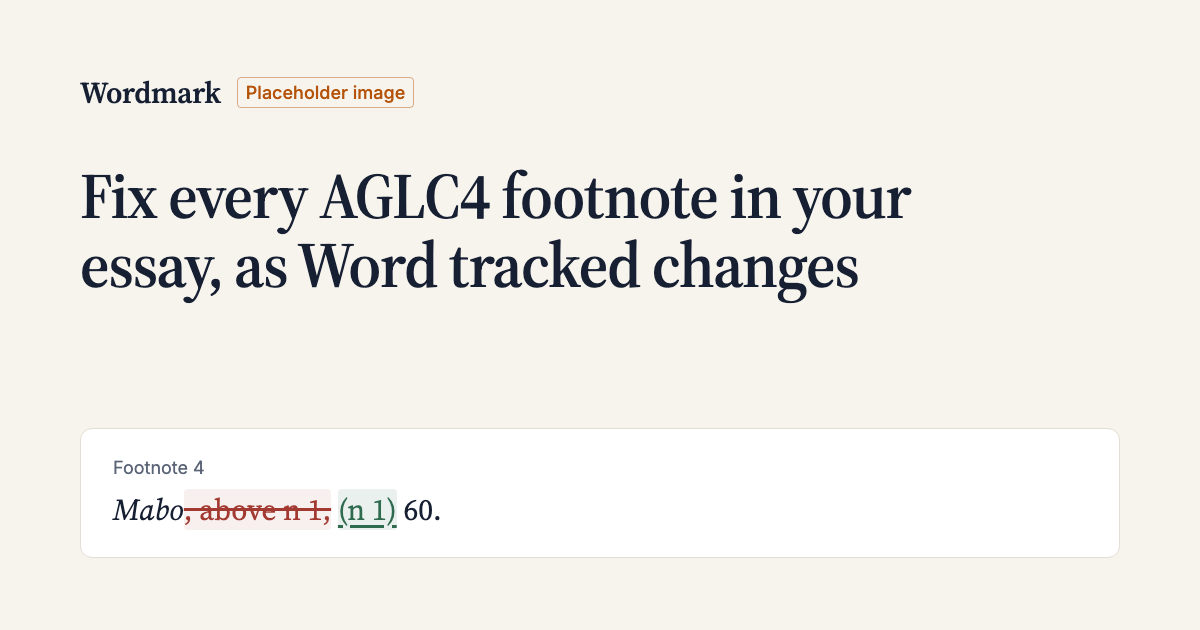
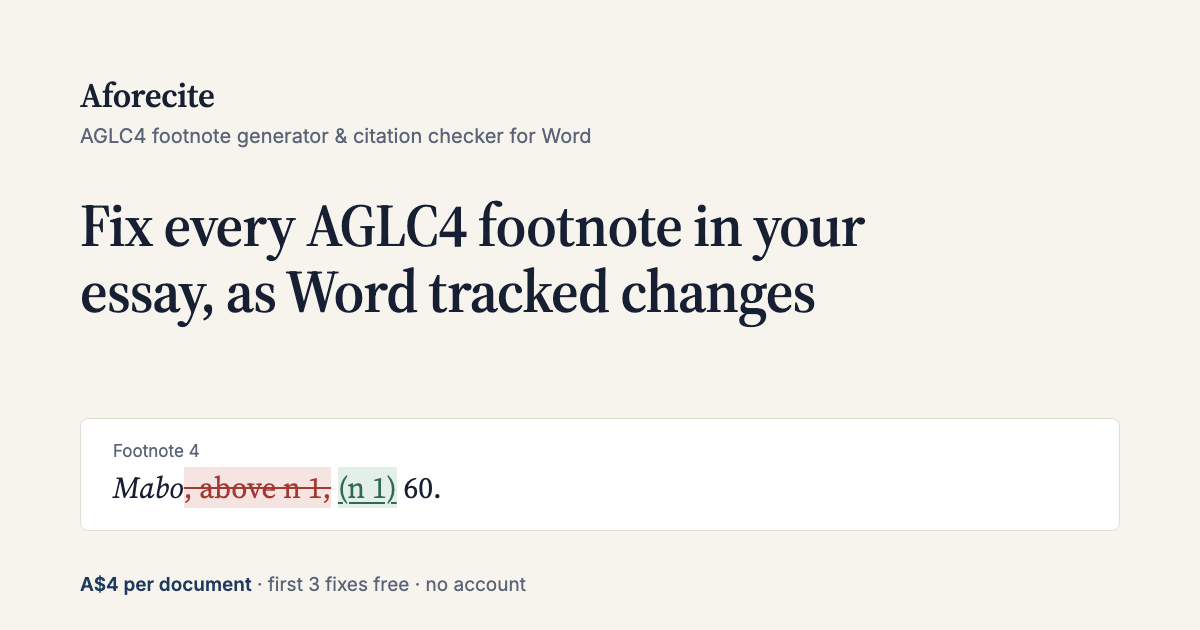
Name the product Aforecite
- BRAND is Aforecite ("aforecited": cited above, which is what Ibid and
  (n x) do).
- The page title leads with what students search for: "AGLC4 Footnote
  Generator & Citation Checker for Word | Aforecite", and the description
  mentions an AGLC4 referencing generator.
- A new Open Graph image with the name and price replaces the placeholder.
- The OpenRouter attribution header, the API title, the README heading and
  DESIGN.md's wordmark rule use the name too.

diff --git a/web/index.html b/web/index.html
@@ -9,12 +9,12 @@ FORM: Editorial legal register, pinned by the brief (no roll). Staging: preview 
 <html lang="en-AU">
 <head>
     {{> head}}
-    <title>AGLC4 Citation Checker and Fixer for Word (.docx)</title>
-    <meta name="description" content="Upload your Word essay and every footnote is fixed to AGLC4: Ibid, (n x), short titles and an optional bibliography, returned as Word tracked changes. {{price}} per document; the first {{preview_full}} fixes are free.">
+    <title>AGLC4 Footnote Generator &amp; Citation Checker for Word | {{brand}}</title>
+    <meta name="description" content="AGLC4 referencing generator for your Word essay: every footnote is fixed to AGLC4, with Ibid, (n x), short titles and an optional bibliography, returned as Word tracked changes. {{price}} per document; the first {{preview_full}} fixes are free.">
     <link rel="canonical" href="{{base_url}}/">
     <meta property="og:type" content="website">
     <meta property="og:site_name" content="{{brand}}">
-    <meta property="og:title" content="AGLC4 Citation Checker and Fixer for Word (.docx)">
+    <meta property="og:title" content="AGLC4 Footnote Generator &amp; Citation Checker for Word | {{brand}}">
     <meta property="og:description" content="Fix every AGLC4 footnote in your essay, as Word tracked changes. {{price}} per document, first {{preview_full}} fixes free, no account.">
     <meta property="og:url" content="{{base_url}}/">
     <meta property="og:image" content="{{base_url}}/assets/og.png">

diff --git a/tests/test_api.py b/tests/test_api.py
@@ -89,7 +89,7 @@ def test_root_serves_html():
     response = client.get("/")
     assert response.status_code == 200
     assert "text/html" in response.headers["content-type"]
-    assert "<title>AGLC4 Citation Checker and Fixer for Word (.docx)</title>" in response.text
+    assert "<title>AGLC4 Footnote Generator &amp; Citation Checker for Word | Aforecite</title>" in response.text
     assert "{{" not in response.text  # every placeholder filled
     assert site.BRAND in response.text
 

diff --git a/aglc/api.py b/aglc/api.py
@@ -88,7 +88,7 @@ async def _lifespan(app: FastAPI):
         sweeper.cancel()
 
 
-app = FastAPI(title="AGLC4 Citation Tool API", lifespan=_lifespan)
+app = FastAPI(title="Aforecite API", lifespan=_lifespan)
 app.add_middleware(guards.GuardMiddleware)  # 413 over $AGLC_MAX_UPLOAD_MB, security headers
 app.include_router(billing.router)  # every route 404s unless AGLC_PAYMENTS is set
 app.mount("/assets", StaticFiles(directory=site.WEB_DIR / "assets", check_dir=False), name="assets")

diff --git a/aglc/llm/providers/openai_provider.py b/aglc/llm/providers/openai_provider.py
@@ -160,7 +160,7 @@ class OpenRouterProvider(OpenAIProvider):
                 "with 'sk-or-'. Create one at https://openrouter.ai/keys"
             )
         # Optional app attribution shown on openrouter.ai
-        kwargs["default_headers"] = {"X-Title": "AGLC4 Citation Tool"}
+        kwargs["default_headers"] = {"X-Title": "Aforecite"}
         return kwargs
 
     def _create(self, system: str, user: str, response_format: dict[str, Any], structured: bool):

diff --git a/aglc/site.py b/aglc/site.py
@@ -31,8 +31,8 @@ from fastapi.responses import HTMLResponse
 
 from . import billing, retention
 
-#: The product's name. A placeholder until one is chosen; swap it here only.
-BRAND = "Wordmark"
+#: The product's name ("aforecited": cited above, which is what Ibid and (n x) do). Set here only.
+BRAND = "Aforecite"
 
 #: When the policy pages (privacy, terms, refunds) last changed: update it with them.
 POLICY_DATE = "18 October 2026"

diff --git a/DESIGN.md b/DESIGN.md
@@ -230,7 +230,7 @@ Restrained: warm neutrals, one navy accent, and three semantic inks that only ev
 ### Named Rules
 **The Faithful Italics Rule.** Citation italics are content (case names, titles). Never fake them, never drop them in a diff, never set citation text in Inter.
 
-**The Wordmark Rule.** The brand name is a placeholder held in one constant (`BRAND` in `aglc/site.py`), set in the serif at 600. Swap it there; no logo mark, no icon.
+**The Wordmark Rule.** The brand name, Aforecite, is held in one constant (`BRAND` in `aglc/site.py`) and set in the serif at 600. Change it only there. The favicon is a plain page-and-footnote mark; there is no other logo.
 
 ## Layout
 

diff --git a/README.md b/README.md
@@ -1,4 +1,4 @@
-# AGLC4 Citation Tool
+# Aforecite: AGLC4 Citation Tool
 
 Format legal citations in Word documents to the *Australian Guide to Legal Citation* (4th ed), including *Ibid*, (*n x*) subsequent references, short titles, signals, and a generated bibliography.
 
